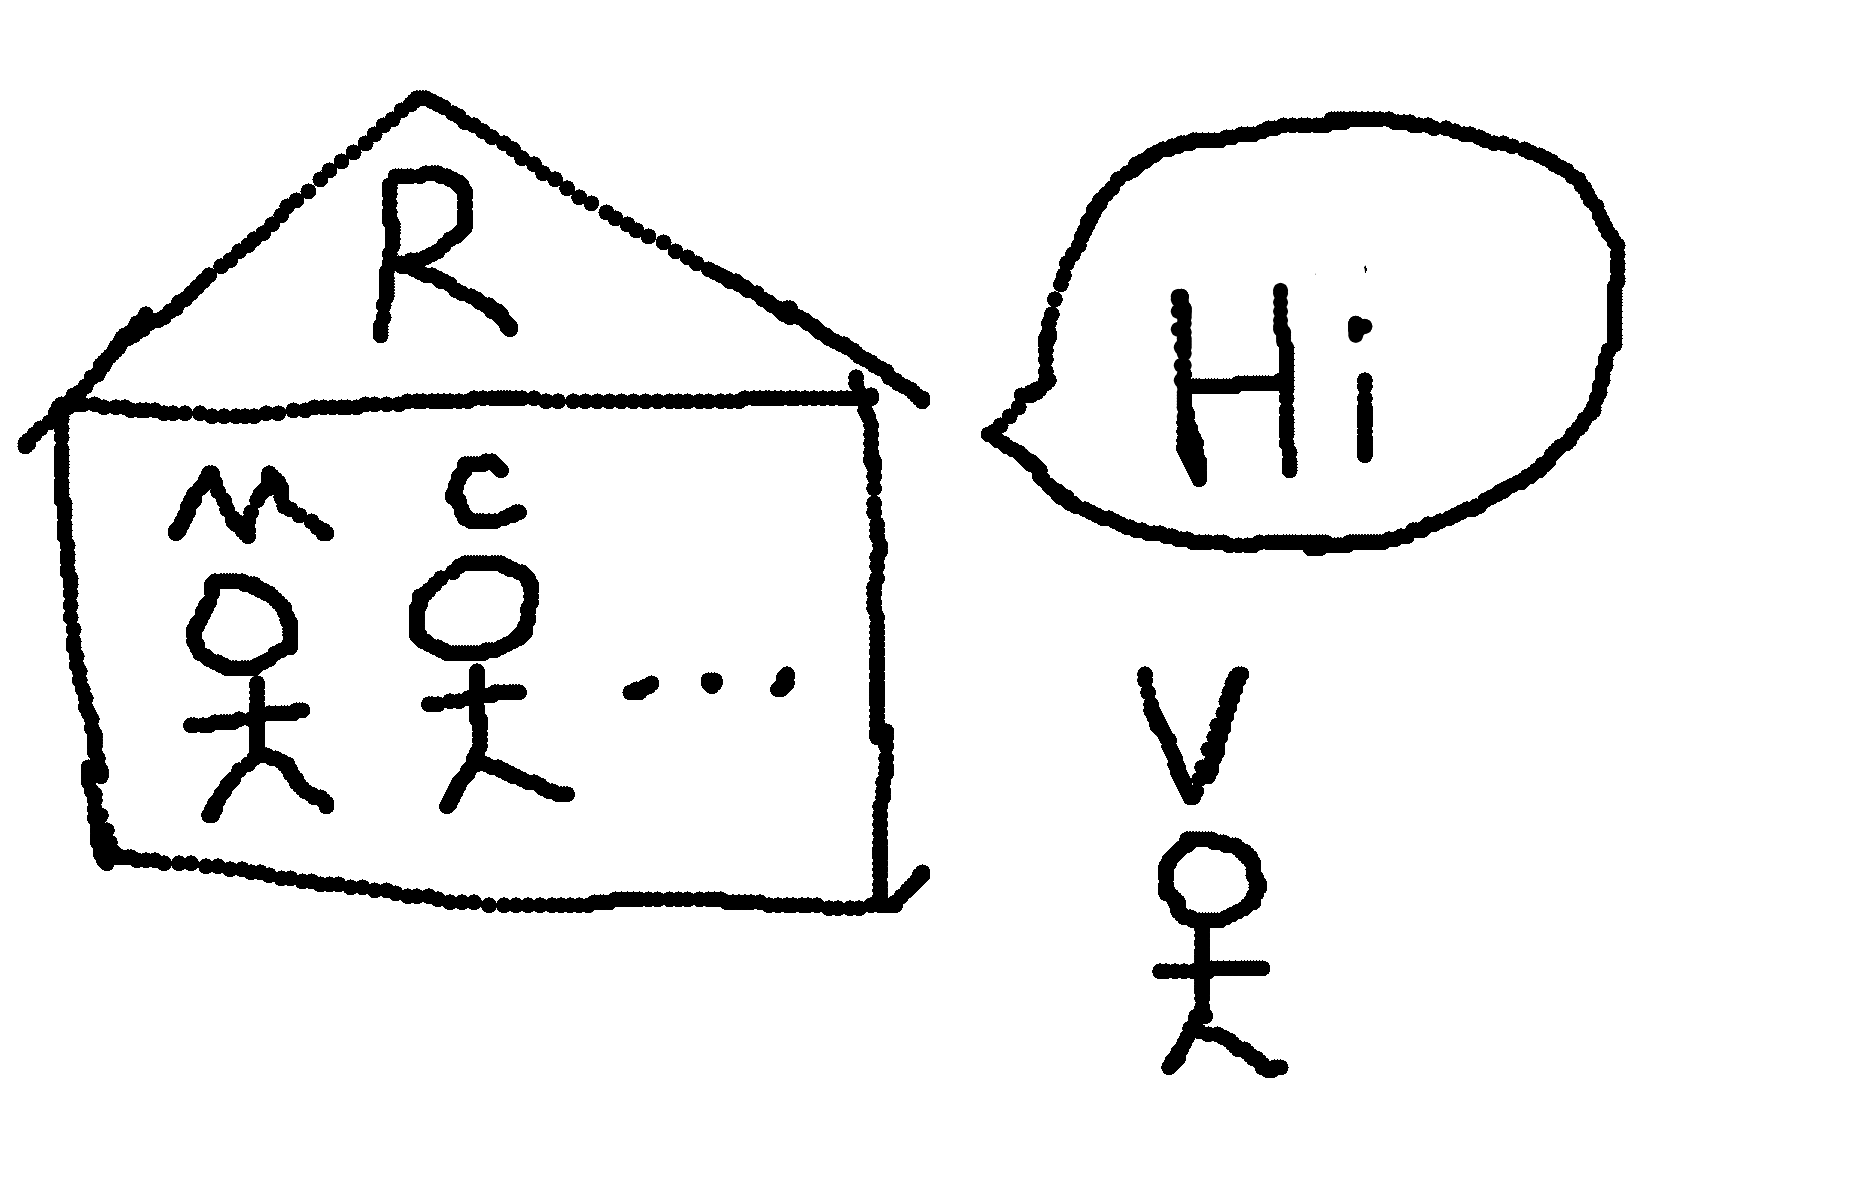
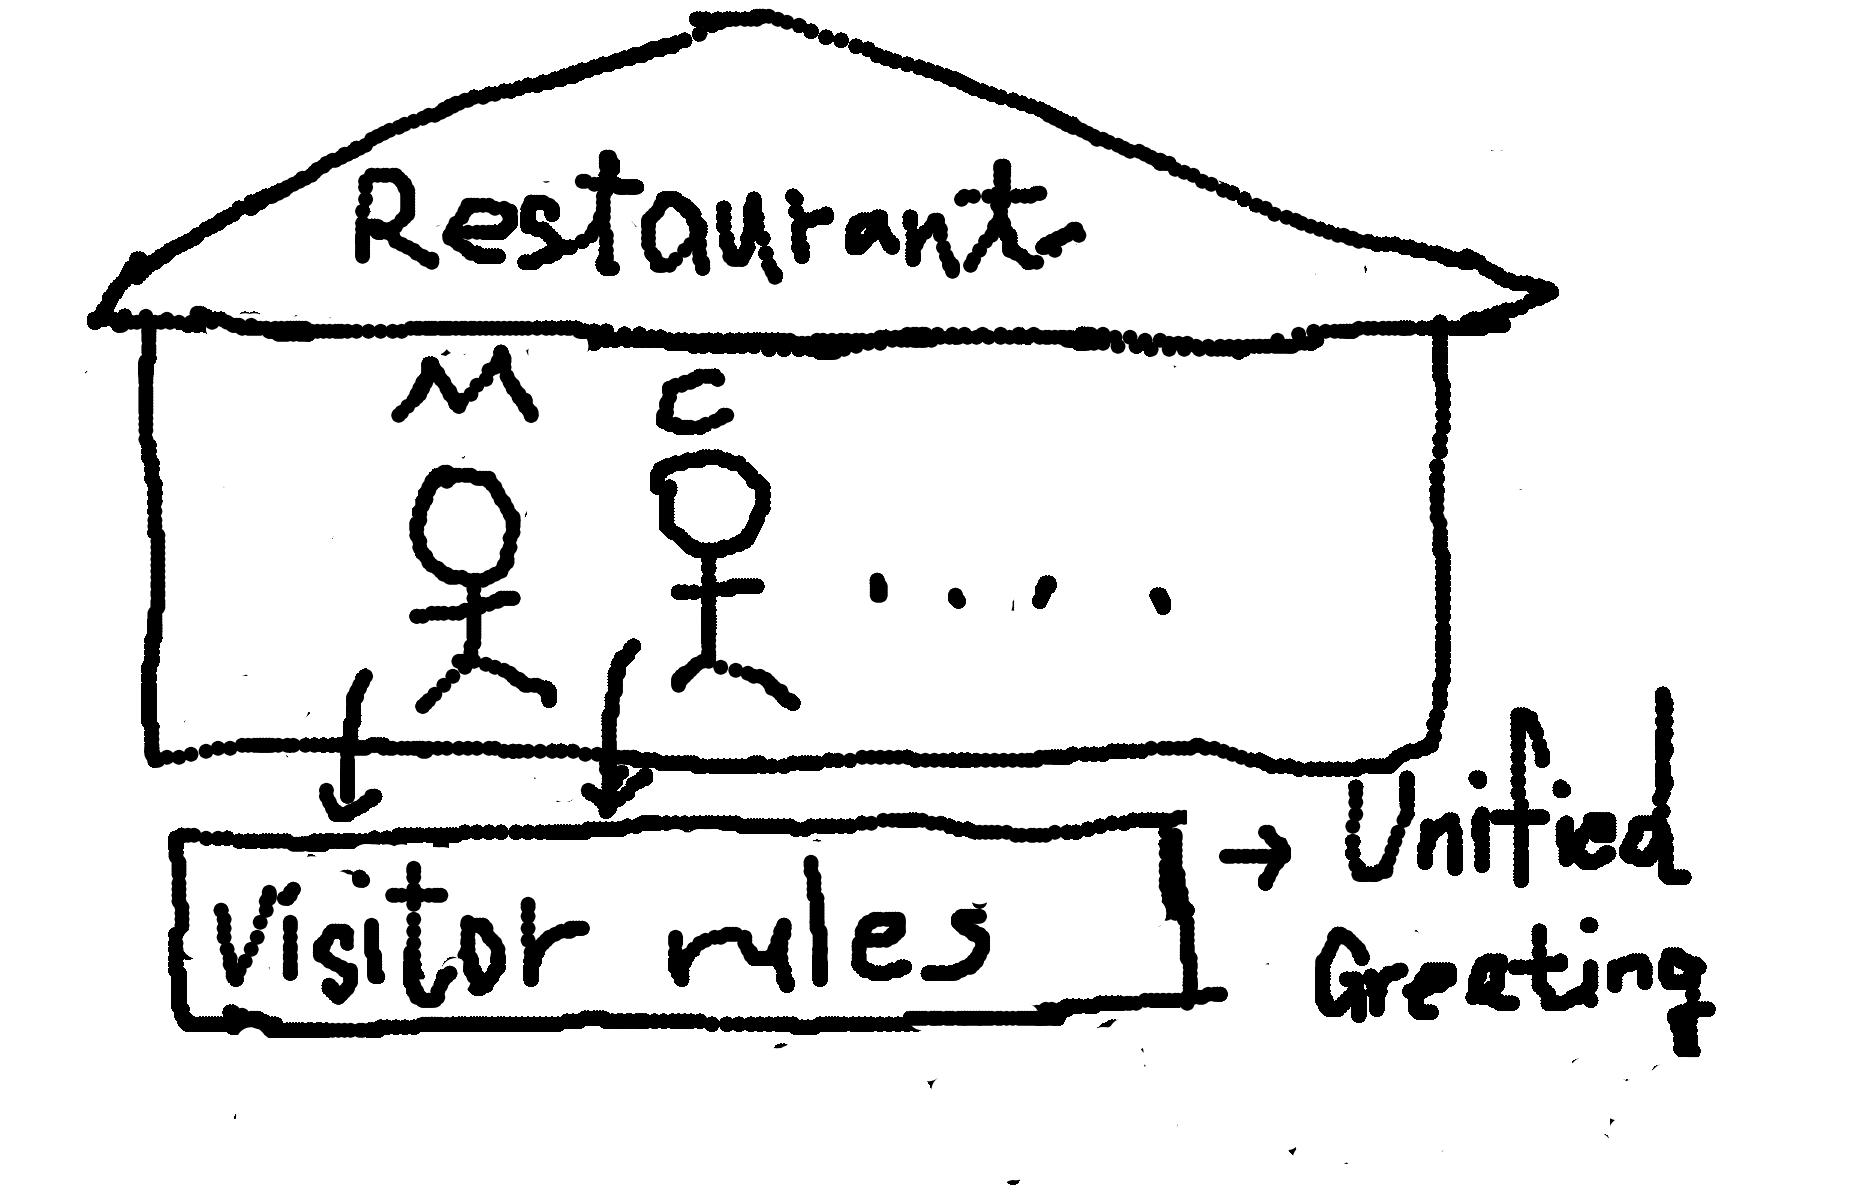
update 2022/10/31

diff --git a/_posts/computer_science/design_pattern/2022-10-28-visitor.md b/_posts/computer_science/design_pattern/2022-10-28-visitor.md
@@ -15,9 +15,11 @@ publish: true
 
 ## Introduction
 
-This article describes the concept of visitor design pattern, which separates common operations with the objects performing those operations; for example, visitors are the **employees** of a restaurant and the common operation is **greeting**.
+This article describes the concept of visitor design pattern, which separates common operations with the objects performing those operations; for example, we want all different types of employees (manager or clerk) to use same style of greetings
 
-* We want all different types of employees to use same greeting
+* objects: employees
+* visitor pattern: employee rules
+* operations: greetings
 
 <div id='visitor' class='h-screen justify-center items-center'>
   <div id='visitor_toggle_erase' class=''></div>
@@ -33,7 +35,7 @@ This article describes the concept of visitor design pattern, which separates co
 
 ## Why?
 
-By modifying the common operations method, all objects using the common operations behaves consistently.
+By modifying the common operations method in visitor pattern, all objects using the common operations behaves consistently.
 
 * pros:
   * Open/Closed Principle: we can introduce new methods to objects without changing the classes of these objects
@@ -50,11 +52,16 @@ The Structure:
 <img src="/assets/img/visitor_structure.png" alt="">
 <figcaption>Source: https://refactoring.guru/design-patterns/visitor</figcaption>
 
+* to call methods in visitor pattern, we need `accept` in `Element` interface
+
 ## What?
 
-when a customer walk into a restaurant, we want both manager and clerk to greet with special slogan and then self introductions and serve meals with same pose but different kind of professions.
+when a customer walk into a restaurant, we want both manager and clerk to
 
-* With visitor pattern, we can change special slogan and poses day by day without break the classes of objects.
+* greet with special slogan and self introductions
+* serve meals with same movement and different kind of professions
+
+With visitor pattern, we can change special slogan and movement day by day without break the classes of objects.
 
 ```ruby
 class Employee # Element
@@ -148,6 +155,6 @@ client_code(components, serve_meal)
 
 [[ Day 25 ] 每個人關心的點都不同 - 訪問者模式 (Visitor Pattern)](https://ithelp.ithome.com.tw/articles/10208766)
 
-[The Visitor Pattern Explained and Implemented in Java | Behavioral Design Patterns | Geekific](https://www.youtube.com/watch?v=UQP5XqMqtqQ)
+[The Visitor Pattern Explained and Implemented in Java Behavioral Design Patterns Geekific](https://www.youtube.com/watch?v=UQP5XqMqtqQ)
 
 [Visitor](https://refactoring.guru/design-patterns/visitors)
